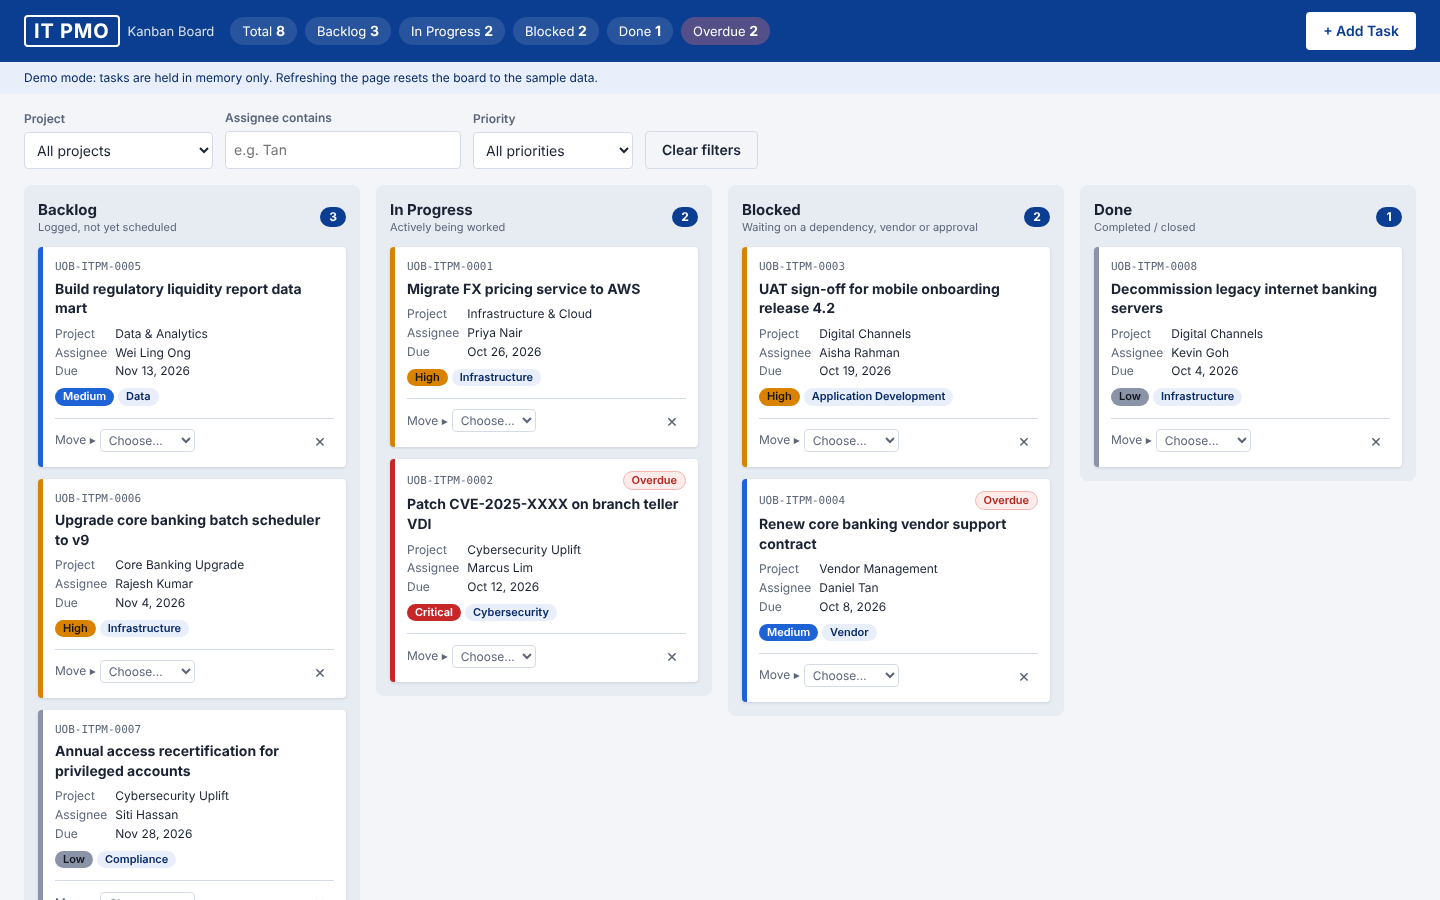
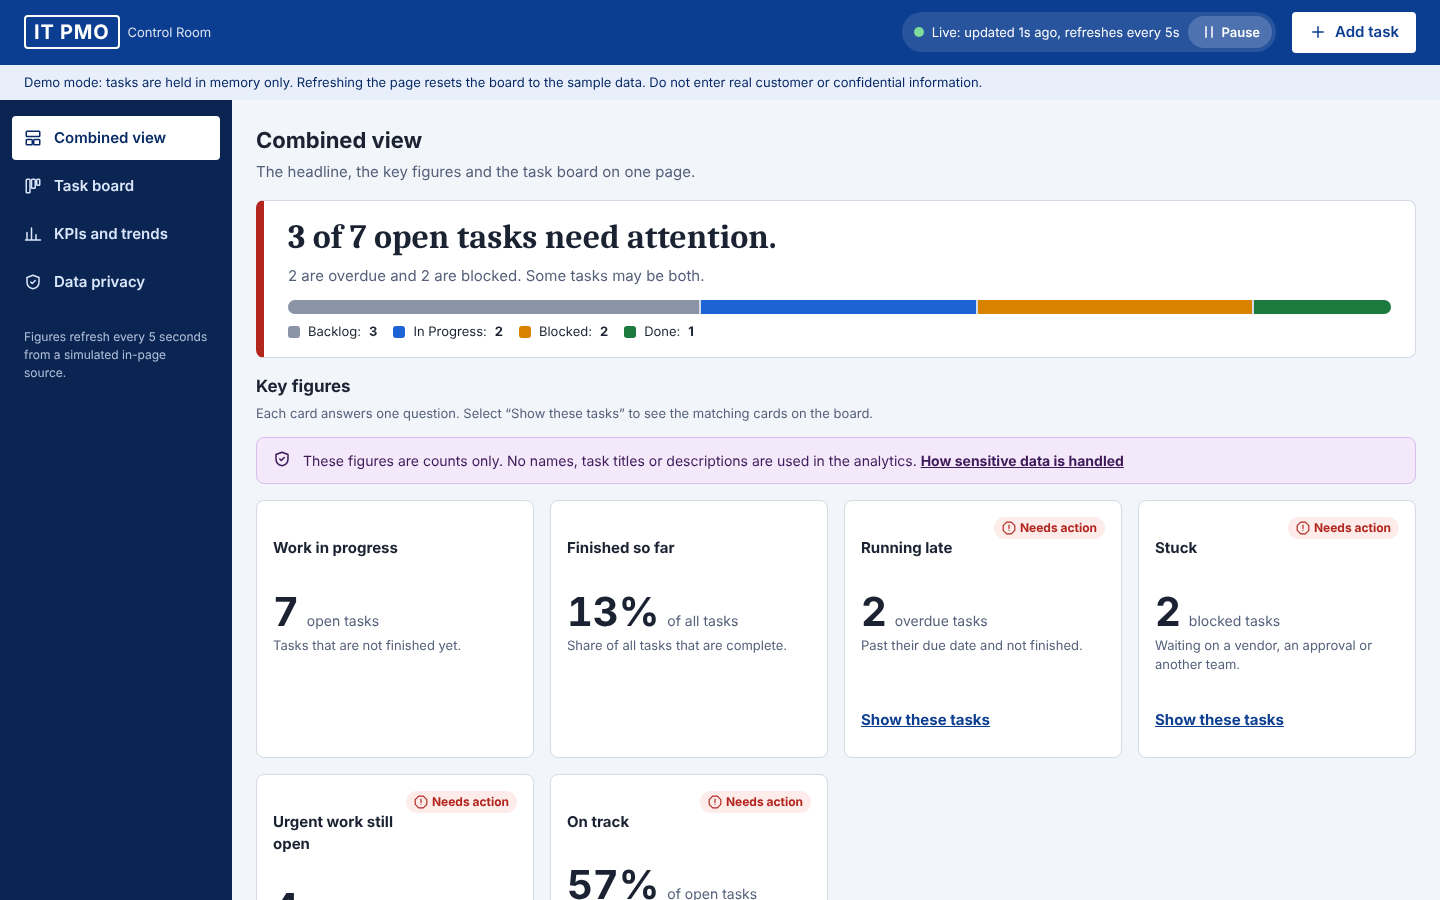
Update README and screenshot for control room; remove stray test screenshots
Claude-Session: https://claude.ai/code/session_0193JicpV5vxyif4yPTYC9bv

diff --git a/README.md b/README.md
@@ -1,17 +1,20 @@
-# IT PMO Kanban
+# IT PMO Control Room
 
-A demo Kanban board for the IT Project Management Office of a **fictitious bank**, built as a training tool. The whole app is one file, `index.html`, written in plain HTML, CSS and JavaScript. It has no build step, no dependencies and no server.
+A demo control room for the IT Project Management Office of a **fictitious bank**, built as a training tool. It combines plain-language KPIs with a Kanban board. The whole app is one file, `index.html`, written in plain HTML, CSS and JavaScript. It has no build step, no dependencies and no server.
 
 **Live demo:** https://madhubala0703.github.io/ClaudecodeTest/
 
-![IT PMO Kanban board screenshot](docs/screenshot.png)
+![IT PMO Control Room screenshot](docs/screenshot.png)
 
 ## Features
 
-- Four columns: **Backlog**, **In Progress**, **Blocked** and **Done**.
-- Drag and drop cards between columns. The **Move ▸** menu on each card does the same thing from the keyboard.
-- Add tasks through a validated form: title, project, category, priority, assignee, due date and status.
-- Filter by project, assignee and priority. The header counts always cover every task.
+- **Combined view:** a plain-language headline ("3 of 7 open tasks need attention"), six KPI cards and the Kanban board on one page.
+- **Navigation:** a sidebar (a bottom bar on phones) with Combined view, Task board, KPIs and trends, and Data privacy. Each view has its own link, such as `#kpis`.
+- **KPIs for non-technical users:** each card has a plain label, one number, a one-line meaning and a status with an icon and text (never colour alone). "Show these tasks" filters the board to the matching cards.
+- **Live refresh every 5 seconds:** figures update from a simulated in-page async source, using parallel requests that never overlap. Updates pause when the tab is hidden or when you click Pause. The board itself is not redrawn by a refresh.
+- **Sensitive data considerations:** analytics use counts only, staff names are shown as initials by default, the Add Task form blocks card numbers, national IDs, emails and passwords, and a Data privacy page lists what is handled and what a real deployment would still need.
+- Four columns: **Backlog**, **In Progress**, **Blocked** and **Done**. Drag and drop cards, or use the **Move to** menu on each card from the keyboard.
+- Add tasks through a validated form. Filter by project, assignee and priority.
 - Overdue cards are highlighted. The sample due dates are relative to today, so some cards are always overdue.
 - Deleting a card asks for inline confirmation (**Delete? Yes / No**).
 - Optional email notice for each new task, sent through [FormSubmit](https://formsubmit.co).
@@ -42,12 +45,17 @@ FormSubmit needs a one-time activation. The first submission sends a confirmatio
 ## Notes
 
 - **Nothing is saved, on purpose.** Tasks live only in memory, and refreshing the page resets the board to the sample data.
-- The only network request is the optional FormSubmit call.
+- The only network request is the optional FormSubmit call. The 5-second refresh reads from the page's own in-memory data and makes no request.
+- New-task emails go to an external service. Do not enter real customer or confidential information.
 
 ## Deployment
 
-Every push to `main` deploys `index.html` to GitHub Pages through the workflow in [`.github/workflows/pages.yml`](.github/workflows/pages.yml). Only the site file is published, not repo files such as `CLAUDE.md` or `.claude/`.
+Every push to `main` deploys `index.html` to GitHub Pages through the workflow in [`.github/workflows/pages.yml`](.github/workflows/pages.yml). Only the site file is published, not repo files such as `CLAUDE.md`, `.claude/` or `.agents/`.
 
 ## Disclaimer
 
 This is a training demo. The bank, projects, people and tasks are all fictitious, and it is not linked to any real financial institution.
+
+## Project skills
+
+Design and quality guidance for Claude Code lives in `.claude/skills/` (linked to `.agents/skills/`): `frontend-design`, `ui-ux-pro-max`, `cybersecurity-analyst` and `frontend-async-best-practices`. These are third-party skills and keep their own licences. They are not part of the published site.
